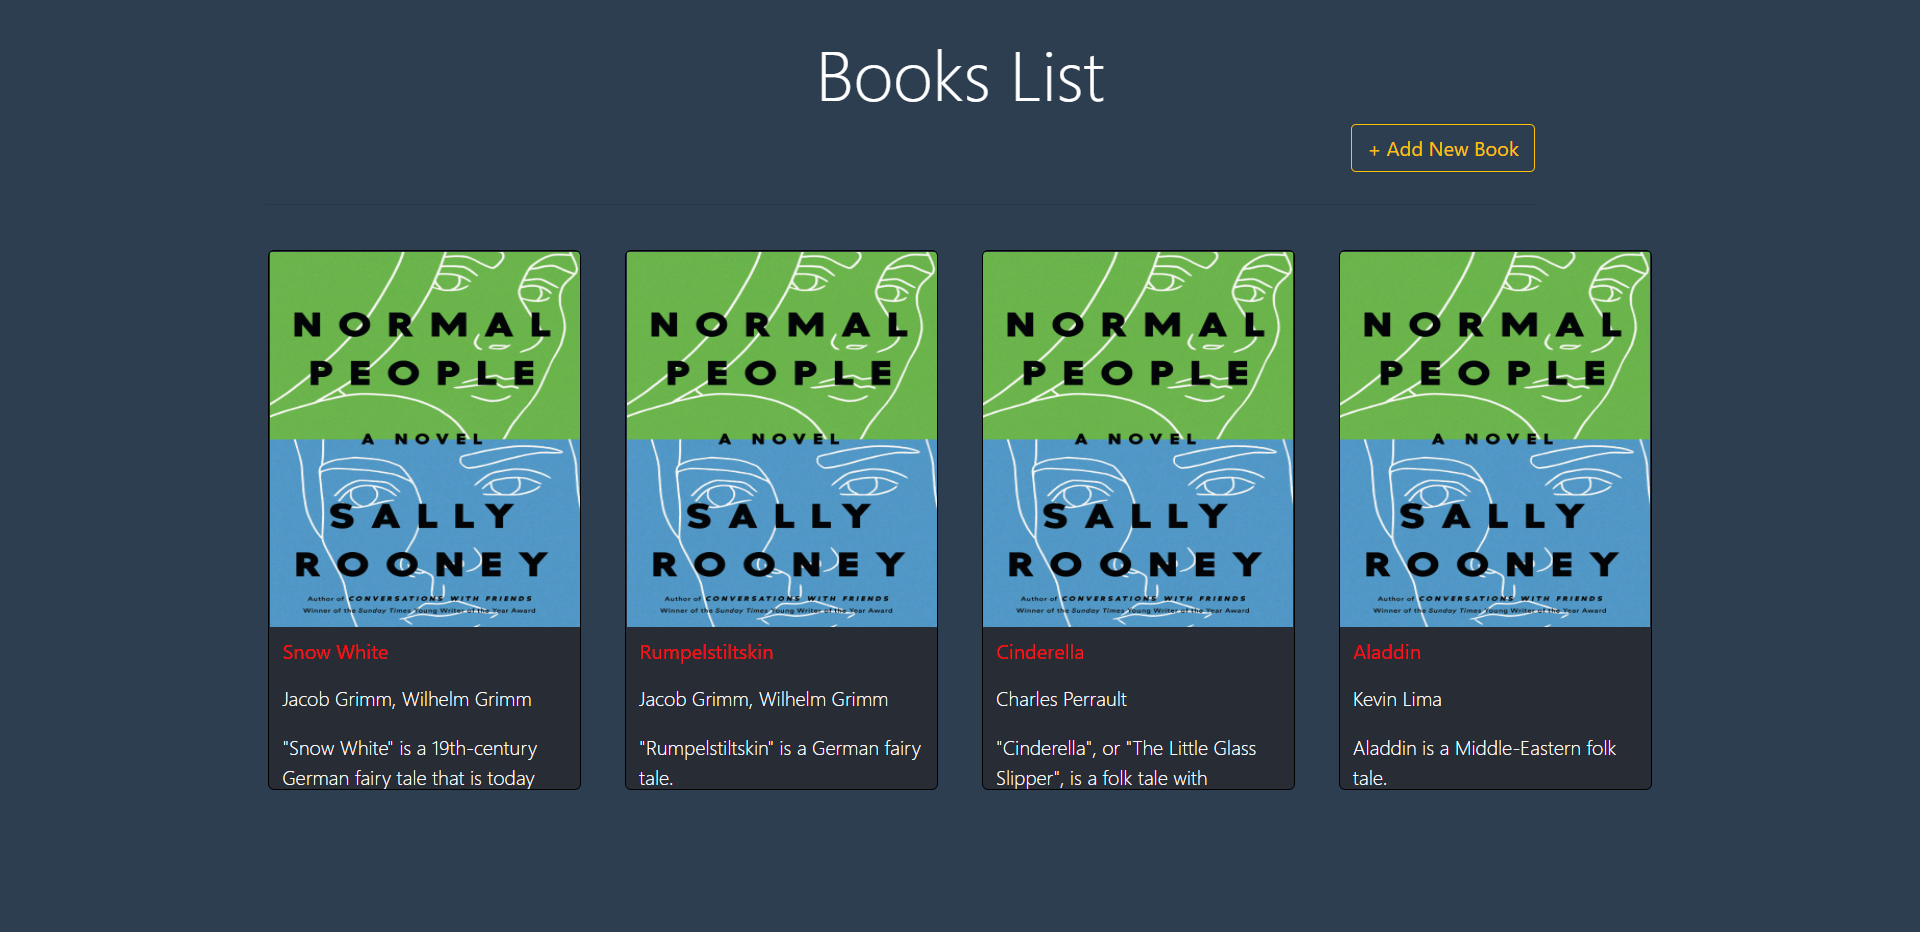
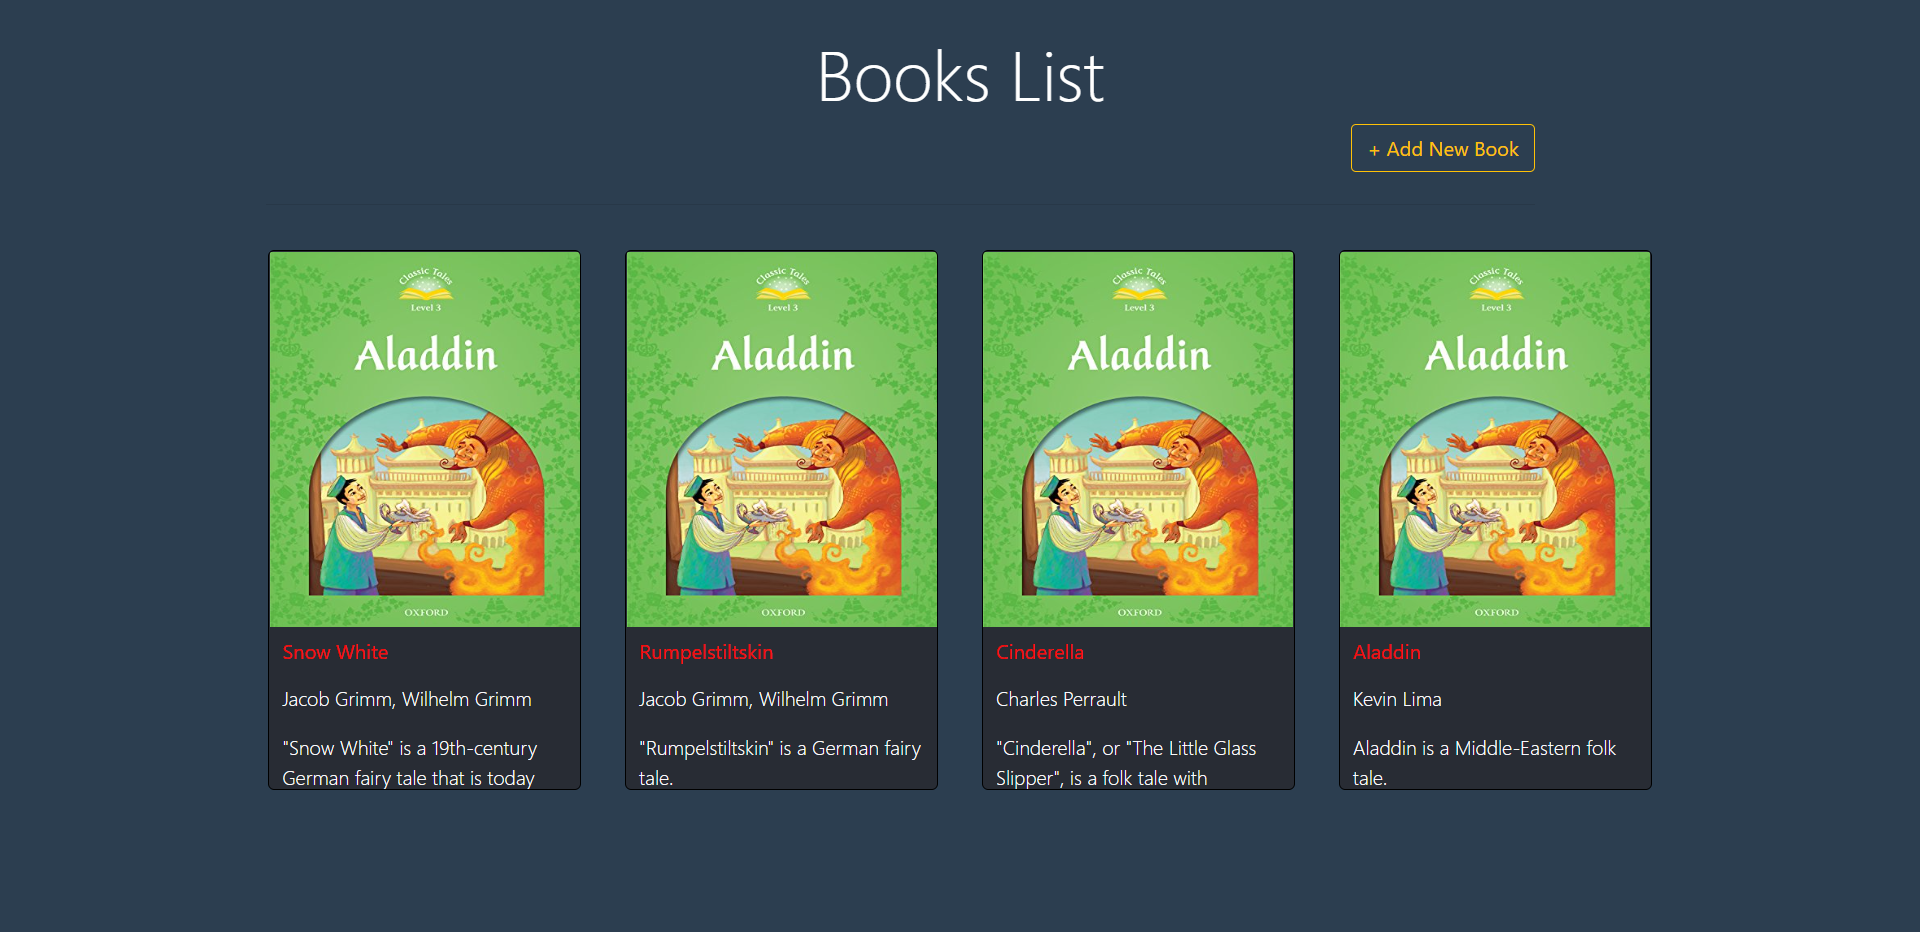
updated a readme file

Changed region(s): [[0.125, 0.28, 0.875, 0.6845]]

diff --git a/frontend/src/components/BookCard.js b/frontend/src/components/BookCard.js
@@ -10,7 +10,7 @@ const BookCard = (props) => {
     return(
         <div className="card-container">
            <Link to={`/show-book/${book._id}`}> 
-        <img src="https://cdn.vox-cdn.com/thumbor/p-gGrwlaU4rLikEAgYhupMUhIJc=/0x0:1650x2475/1200x0/filters:focal(0x0:1650x2475):no_upscale()/cdn.vox-cdn.com/uploads/chorus_asset/file/13757614/817BsplxI9L.jpg"width={250} height={300} alt="" />
+        <img src="https://m.media-amazon.com/images/I/516Ied32+cL.jpg"width={250} height={300} alt="" />
         </Link>
         <div className="desc">
             <h2>
